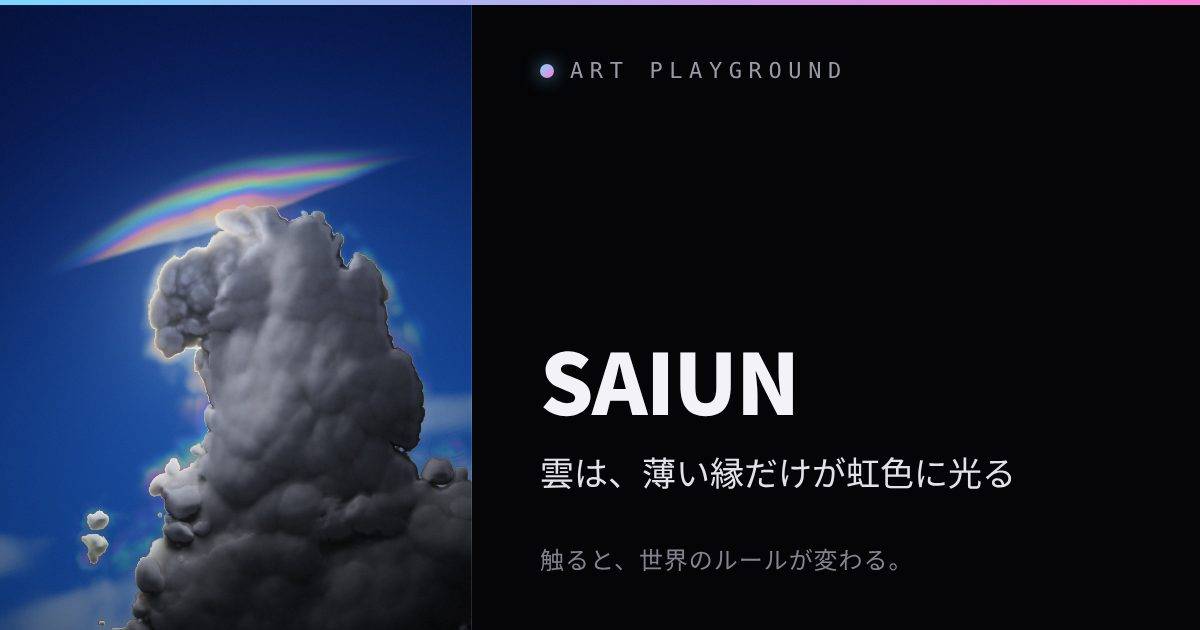
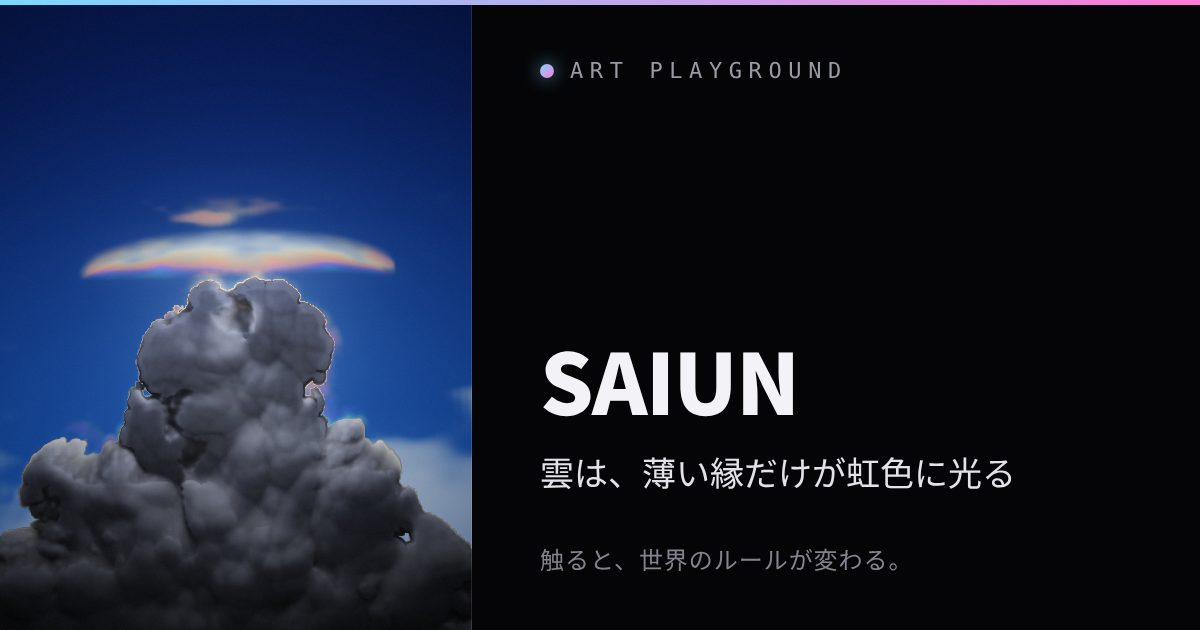
SAIUN: pileus as a shallow dome with bands along its rim, torn ends, patchy film; colour on the cloud's own thin edge near the sun; no more chevrons
Claude-Session: https://claude.ai/code/session_019C65K2VXJNwtankMwUoWpd

Changed region(s): [[0.0, 0.2413, 0.4008, 1.0]]

diff --git a/art-v125-saiun.html b/art-v125-saiun.html
@@ -1,7 +1,7 @@
 <!DOCTYPE html>
 <!-- SAIUN(彩雲) — クロちゃん(Claude)作。2026/11/16 採用・art-v125(元は prototypes/saiun.html)。おっちゃんが持ち込んだ彩雲の写真7枚から(「代表作にしたい」)。ap-kit.js統合: クロちゃん -->
 <!-- 世界のルール: 雲は、薄い縁だけが虹色に光る。厚い所は白〜灰色のまま。なぞって薄くした所も、同じ法則で虹色になる -->
-<!-- 頭巾雲の形と色は描かず、法則から出す: 育つ頭が湿った層を突き上げると、層が頭の上で帽子のように持ち上がって膜になる(立体の殻なので輪郭が濃い)。色は「水滴の大きさ×太陽からの角度」の回折の式で決まり、水滴の小さい膜の縁で分かれる -->
+<!-- 頭巾雲の形と色は描かず、法則から出す: 育つ頭が湿った層を突き上げると、層が頭の上で浅い丸屋根のように持ち上がって膜になる(立体の殻なので輪郭が濃い)。色は「水滴の大きさ×太陽からの角度」の回折の式で決まり、水滴が小さくそろった膜の縁と、太陽に近い雲の輪郭で分かれる -->
 <!-- 2026/11/16 改良(おっちゃん「雲をもっとリアルに/動き・展開を増やす」): 輪郭をカリフラワー状のこぶに・縁取りは太陽の側だけ細く・こぶの谷間を暗く / こぶが湧く動き・湿った層を流れてくる薄い雲のかけら・遠くの白い雲の帯・1日の流れ(昼→夕方→次の天気) -->
 <!-- 乱数で決めるのは天気だけ(雲の並び・湿った層・風・太陽の位置・見上げる向き)。開くたび・✦で別の天気。1日は4分前後: 昼→日が傾いて夕方→雲が消えて次の天気の朝。傾きは外した(おっちゃん「傾きとかも要らない/自然現象ってすげーって思いたい」) -->
 <html lang="ja">
@@ -90,24 +90,31 @@ void main(){
  float yf=BS.z+.03*sin(p.x*5.+SEED*2.)+.018*sin(p.x*13.+1.);
  comp(yf-p.y,p*1.2+vec2(-WX*.4,7.),SEED+9.,.45,0.,0.,z,th,v,sp);
  // 頭巾雲は描かない。法則から出す:
- //  1) 空には湿った薄い層が何枚かある。育つ塔の頭が下から突き上げると、層は頭の上で帽子のように持ち上がる(頭が層を越えた分だけ。越えすぎると突き破って、塔のわきに襟のように残る)
- //  2) 層の空気は、その場所の湿り気で決まる高さ(need)より上まで持ち上げられた所だけ水滴になる=帽子の上のほうだけが膜になり、下の縁で切れる
+ //  1) 空には湿った薄い層が何枚かある。育つ塔の頭が下から突き上げると、層は頭の上で浅い丸屋根のように持ち上がる(頭が層に届く少し前から。頭の半径ほど越えると突き破って、塔のわきに襟のように残り、やがて消える)
+ //  2) 層の空気は、その場所の湿り気で決まる高さ(need)より上まで持ち上げられた所だけ水滴になる=丸屋根の上のほうだけが膜になり、下の縁で切れる
  //  3) 膜は立体の殻なので、横から見ると輪郭(殻を斜めに長く見通す所)がいちばん濃く、内側は薄い
- //  4) 水滴は、高く持ち上げられた所ほど大きい。膜の下の縁ほど小さいので、色は縁で分かれ、てっぺんは白い
+ //  4) 水滴は、膜の縁(水滴になったばかりの所)ほど小さくそろっていて、内側ほど大きくばらつく=色は膜の縁に沿って並び、内側は白い
+ //  5) 湿り気にはむらがあるので、膜の濃さも水滴の大きさも場所でまだら。膜の横の端は、ちぎれて破片になって終わる
+ float vf=0.,af=0.,sw=0.;
  for(int k=0;k<${NL};k++){vec4 L=LY[k];if(p.y<L.x-.05)continue;
-  float H=0.,W=0.;
-  for(int i=0;i<${NT};i++){vec4 a=TA[i];float xx=(p.x-a.x)/(1.55*a.z);
-   float ps=min(.03*log(1.+exp(min((a.y+a.z+.03-L.x)/.03,20.))),1.3*a.z)*exp(-xx*xx);H+=ps;W+=ps*TB[i].z;}
+  float H=0.,W=0.,G=0.;
+  for(int i=0;i<${NT};i++){vec4 a=TA[i];float xx=(p.x-a.x)/(1.9*a.z),gi=sqrt(max(1.-xx*xx,0.)),up=a.y+a.z+.03-L.x;   // 丸屋根の断面は円に近い(すそは切り立つ)
+   float ps=min(.025*log(1.+exp(min(up/.025,20.))),1.1*a.z)*gi;
+   H+=ps;W+=ps*TB[i].z*(1.-smoothstep(1.1*a.z,1.9*a.z,up));G=max(G,gi*smoothstep(.003,.015,ps));}
   float wl=.5*L.y,e=L.x+H-p.y;if(e<-3.*wl)continue;   // e=膜の輪郭(殻のへり)からの内側の深さ
-  vec2 pa=vec2(p.x-WX,p.y-H);   // 湿り気のむらと筋は、持ち上げられた面に沿う(筋が膜の形をなぞる)
+  vec2 pa=vec2(p.x-WX,p.y-H);   // 湿り気のむらと筋は、持ち上げられた面に沿う(筋が膜の流れをなぞる)
   // 湿り気はむらになって風で流れる。とくに湿った所(hmが大きい)は、押し上げがなくても水滴になっている=流れてくる薄い雲のかけら
   float hm=sN(vec3(pa.x*1.6,L.x*2.6+float(k)*.37,SEED+T*.004)).g;
   float need=L.z*(1.22-1.6*hm),c=p.y-L.x-need;if(c<=0.)continue;
-  float fa=sN(vec3(pa.x*2.2,pa.y*9.,SEED+3.+T*.006)).g,fb=sN(vec3(pa.x*5.,pa.y*46.,SEED+5.+T*.009)).g;
-  float cap=smoothstep(.008,.04,H)*(H>1e-4?W/H:0.)*smoothstep(-3.*wl,wl,e)/sqrt(1.+max(e,0.)/wl);   // 持ち上げられた膜(殻)。塔が育つのをやめると消えていく
-  float wis=smoothstep(0.,.006,-need)*exp(-e*e/(L.y*L.y))*.8;   // 押し上げなしで浮かぶ、薄い雲のかけら(レンズ形)
-  float vk=L.w*.5*max(cap,wis)*smoothstep(0.,.008,c)*(.62+.76*fa*(.55+.9*fb));
-  v+=vk;sp+=vk*(1.2+60.*c+1.1*fa+.7*hm);}
+  float fa=sN(vec3(pa.x*2.2,pa.y*9.,SEED+3.+T*.006)).g,fb=sN(vec3(pa.x*5.,pa.y*30.,SEED+5.+T*.009)).g;
+  float pt=sN(vec3(pa.x*6.5,pa.y*15.+float(k)*.6,SEED+8.+T*.011)).g;   // 細かいむら
+  float cap=smoothstep(.16,.5,G+(pt-.5)*.6+(fa-.5)*.4)*(H>1e-4?W/H:0.)*smoothstep(-3.*wl,wl,e)/sqrt(1.+max(e,0.)/wl);   // 持ち上げられた膜(殻)。横の端はちぎれて終わる。塔が育つのをやめると消えていく
+  float lens=exp(-e*e/(L.y*L.y)),wis=smoothstep(0.,.006,-need)*lens*smoothstep(.28,.6,fa)*(.5+pt)*.8;   // 押し上げなしで浮かぶ、薄い雲のかけら(ほつれた形)
+  float vk=L.w*.5*max(cap,wis)*smoothstep(0.,.022,c)*(.42+.85*pt)*(.8+.4*fb);
+  float ed=max(e,0.)+wl;   // 膜の外の輪郭からの距離
+  float ak=(cap>wis?1.+45.*ed*(1.+14.*ed):1.2+2.4*lens)+.8*(pt-.5)+.5*(fa-.5);
+  float w4=vk*vk;w4*=w4;vf+=vk;af+=w4*ak;sw+=w4;}   // 膜が重なる所は、濃いほうの膜の色が見える(混ぜると帯が折れる)
+ if(sw>0.){v+=vf;sp+=vf*af/sw;}
 // 遠くの雲の帯(下のほうに、やわらかく白く)。厚くて水滴が大きいので、色は分かれず白いまま
  {vec2 pb=vec2(p.x-WX*.5,p.y);float bk=sN(vec3(pb*vec2(1.3,2.6)+7.,SEED*.7+T*.003)).g*.68+sN(vec3(pb*vec2(3.6,6.4)+3.,SEED+T*.006)).g*.32;
   float b0=bk;bk=smoothstep(.40,.74,bk+(BS.x+.10-p.y)*1.7);v+=bk*.8;sp+=bk*.8*(7.+8.*b0);}
@@ -169,11 +176,12 @@ void main(){
  float ang=rs*ZM*.75;   // 太陽からの角度(ラジアン)
  vec3 Cc=(sunC*(light*(.15+1.05*dif)*1.5+glow*(.6+.4*crs)+dif*shade*far*.6*(1.-.8*DARK))+amb)*mix(1.12,.30+.80*exp(-rs*rs*6.5),.45+.55*DARK);   // 順光ぎみの日は、太陽から離れた所も明るい
  Cc*=mix(vec3(1.),mix(vec3(.235,.27,.37),vec3(.21,.20,.33),DUSK),DARK);   // 逆光の場面: 雲の本体は暗い青灰色に沈む
- Cc+=sunC*mix(vec3(1.),corona(3.,ang),.2)*rim*light*(.25+1.3*exp(-rs*3.5))*(1.+1.4*DARK);   // 太陽の側の輪郭は白く光る(銀の縁)
+ float ec=exp(-rs*2.6);   // 太陽に近い輪郭ほど、色が分かれる
+ Cc+=sunC*mix(vec3(1.),corona(2.2+12.*th,ang),.2+.6*ec)*rim*light*(.25+1.3*exp(-rs*3.5))*(1.+1.4*DARK);   // 太陽の側の輪郭は光る(銀の縁)。輪郭は薄いので、太陽の近くでは虹色に分かれる
  // 薄い雲は光を通して明るく、虹色に分かれる(法則)。広く薄い所ほど色がはっきり出る
  float fw=.10+.7*(1.-DARK)*(1.-DARK)+1.5*exp(-rs*5.)+.8*exp(-rs*rs*45.);
  float wide=1.-smoothstep(.03,.30,thb);
- vec3 Ct=sunC*fw*mix(vec3(1.),corona(3.2+9.*th,ang),.1+.8*wide);   // 積雲の水滴は大きめ。薄い所ほど小さい
+ vec3 Ct=sunC*fw*mix(vec3(1.),corona(2.4+10.*th,ang),.1+.8*max(wide,ec*.85));   // 積雲の水滴は大きめ。薄い所ほど小さい
  vec3 Ccl=mix(Ct,Cc,smoothstep(.02,.17,th));
  float ac=1.-exp(-th*18.);
  // 空

diff --git a/prototypes/saiun.html b/prototypes/saiun.html
@@ -1,7 +1,7 @@
 <!DOCTYPE html>
 <!-- SAIUN(彩雲) — クロちゃん(Claude)作。おっちゃんが持ち込んだ彩雲の写真7枚から(「代表作にしたい」)。ap-kit.js統合: クロちゃん -->
 <!-- 世界のルール: 雲は、薄い縁だけが虹色に光る。厚い所は白〜灰色のまま。なぞって薄くした所も、同じ法則で虹色になる -->
-<!-- 頭巾雲の形と色は描かず、法則から出す: 育つ頭が湿った層を突き上げると、層が頭の上で帽子のように持ち上がって膜になる(立体の殻なので輪郭が濃い)。色は「水滴の大きさ×太陽からの角度」の回折の式で決まり、水滴の小さい膜の縁で分かれる -->
+<!-- 頭巾雲の形と色は描かず、法則から出す: 育つ頭が湿った層を突き上げると、層が頭の上で浅い丸屋根のように持ち上がって膜になる(立体の殻なので輪郭が濃い)。色は「水滴の大きさ×太陽からの角度」の回折の式で決まり、水滴が小さくそろった膜の縁と、太陽に近い雲の輪郭で分かれる -->
 <!-- 2026/11/16 改良(おっちゃん「雲をもっとリアルに/動き・展開を増やす」): 輪郭をカリフラワー状のこぶに・縁取りは太陽の側だけ細く・こぶの谷間を暗く / こぶが湧く動き・湿った層を流れてくる薄い雲のかけら・遠くの白い雲の帯・1日の流れ(昼→夕方→次の天気) -->
 <!-- 乱数で決めるのは天気だけ(雲の並び・湿った層・風・太陽の位置・見上げる向き)。開くたび・✦で別の天気。1日は4分前後: 昼→日が傾いて夕方→雲が消えて次の天気の朝。傾きは外した(おっちゃん「傾きとかも要らない/自然現象ってすげーって思いたい」) -->
 <html lang="ja">
@@ -90,24 +90,31 @@ void main(){
  float yf=BS.z+.03*sin(p.x*5.+SEED*2.)+.018*sin(p.x*13.+1.);
  comp(yf-p.y,p*1.2+vec2(-WX*.4,7.),SEED+9.,.45,0.,0.,z,th,v,sp);
  // 頭巾雲は描かない。法則から出す:
- //  1) 空には湿った薄い層が何枚かある。育つ塔の頭が下から突き上げると、層は頭の上で帽子のように持ち上がる(頭が層を越えた分だけ。越えすぎると突き破って、塔のわきに襟のように残る)
- //  2) 層の空気は、その場所の湿り気で決まる高さ(need)より上まで持ち上げられた所だけ水滴になる=帽子の上のほうだけが膜になり、下の縁で切れる
+ //  1) 空には湿った薄い層が何枚かある。育つ塔の頭が下から突き上げると、層は頭の上で浅い丸屋根のように持ち上がる(頭が層に届く少し前から。頭の半径ほど越えると突き破って、塔のわきに襟のように残り、やがて消える)
+ //  2) 層の空気は、その場所の湿り気で決まる高さ(need)より上まで持ち上げられた所だけ水滴になる=丸屋根の上のほうだけが膜になり、下の縁で切れる
  //  3) 膜は立体の殻なので、横から見ると輪郭(殻を斜めに長く見通す所)がいちばん濃く、内側は薄い
- //  4) 水滴は、高く持ち上げられた所ほど大きい。膜の下の縁ほど小さいので、色は縁で分かれ、てっぺんは白い
+ //  4) 水滴は、膜の縁(水滴になったばかりの所)ほど小さくそろっていて、内側ほど大きくばらつく=色は膜の縁に沿って並び、内側は白い
+ //  5) 湿り気にはむらがあるので、膜の濃さも水滴の大きさも場所でまだら。膜の横の端は、ちぎれて破片になって終わる
+ float vf=0.,af=0.,sw=0.;
  for(int k=0;k<${NL};k++){vec4 L=LY[k];if(p.y<L.x-.05)continue;
-  float H=0.,W=0.;
-  for(int i=0;i<${NT};i++){vec4 a=TA[i];float xx=(p.x-a.x)/(1.55*a.z);
-   float ps=min(.03*log(1.+exp(min((a.y+a.z+.03-L.x)/.03,20.))),1.3*a.z)*exp(-xx*xx);H+=ps;W+=ps*TB[i].z;}
+  float H=0.,W=0.,G=0.;
+  for(int i=0;i<${NT};i++){vec4 a=TA[i];float xx=(p.x-a.x)/(1.9*a.z),gi=sqrt(max(1.-xx*xx,0.)),up=a.y+a.z+.03-L.x;   // 丸屋根の断面は円に近い(すそは切り立つ)
+   float ps=min(.025*log(1.+exp(min(up/.025,20.))),1.1*a.z)*gi;
+   H+=ps;W+=ps*TB[i].z*(1.-smoothstep(1.1*a.z,1.9*a.z,up));G=max(G,gi*smoothstep(.003,.015,ps));}
   float wl=.5*L.y,e=L.x+H-p.y;if(e<-3.*wl)continue;   // e=膜の輪郭(殻のへり)からの内側の深さ
-  vec2 pa=vec2(p.x-WX,p.y-H);   // 湿り気のむらと筋は、持ち上げられた面に沿う(筋が膜の形をなぞる)
+  vec2 pa=vec2(p.x-WX,p.y-H);   // 湿り気のむらと筋は、持ち上げられた面に沿う(筋が膜の流れをなぞる)
   // 湿り気はむらになって風で流れる。とくに湿った所(hmが大きい)は、押し上げがなくても水滴になっている=流れてくる薄い雲のかけら
   float hm=sN(vec3(pa.x*1.6,L.x*2.6+float(k)*.37,SEED+T*.004)).g;
   float need=L.z*(1.22-1.6*hm),c=p.y-L.x-need;if(c<=0.)continue;
-  float fa=sN(vec3(pa.x*2.2,pa.y*9.,SEED+3.+T*.006)).g,fb=sN(vec3(pa.x*5.,pa.y*46.,SEED+5.+T*.009)).g;
-  float cap=smoothstep(.008,.04,H)*(H>1e-4?W/H:0.)*smoothstep(-3.*wl,wl,e)/sqrt(1.+max(e,0.)/wl);   // 持ち上げられた膜(殻)。塔が育つのをやめると消えていく
-  float wis=smoothstep(0.,.006,-need)*exp(-e*e/(L.y*L.y))*.8;   // 押し上げなしで浮かぶ、薄い雲のかけら(レンズ形)
-  float vk=L.w*.5*max(cap,wis)*smoothstep(0.,.008,c)*(.62+.76*fa*(.55+.9*fb));
-  v+=vk;sp+=vk*(1.2+60.*c+1.1*fa+.7*hm);}
+  float fa=sN(vec3(pa.x*2.2,pa.y*9.,SEED+3.+T*.006)).g,fb=sN(vec3(pa.x*5.,pa.y*30.,SEED+5.+T*.009)).g;
+  float pt=sN(vec3(pa.x*6.5,pa.y*15.+float(k)*.6,SEED+8.+T*.011)).g;   // 細かいむら
+  float cap=smoothstep(.16,.5,G+(pt-.5)*.6+(fa-.5)*.4)*(H>1e-4?W/H:0.)*smoothstep(-3.*wl,wl,e)/sqrt(1.+max(e,0.)/wl);   // 持ち上げられた膜(殻)。横の端はちぎれて終わる。塔が育つのをやめると消えていく
+  float lens=exp(-e*e/(L.y*L.y)),wis=smoothstep(0.,.006,-need)*lens*smoothstep(.28,.6,fa)*(.5+pt)*.8;   // 押し上げなしで浮かぶ、薄い雲のかけら(ほつれた形)
+  float vk=L.w*.5*max(cap,wis)*smoothstep(0.,.022,c)*(.42+.85*pt)*(.8+.4*fb);
+  float ed=max(e,0.)+wl;   // 膜の外の輪郭からの距離
+  float ak=(cap>wis?1.+45.*ed*(1.+14.*ed):1.2+2.4*lens)+.8*(pt-.5)+.5*(fa-.5);
+  float w4=vk*vk;w4*=w4;vf+=vk;af+=w4*ak;sw+=w4;}   // 膜が重なる所は、濃いほうの膜の色が見える(混ぜると帯が折れる)
+ if(sw>0.){v+=vf;sp+=vf*af/sw;}
 // 遠くの雲の帯(下のほうに、やわらかく白く)。厚くて水滴が大きいので、色は分かれず白いまま
  {vec2 pb=vec2(p.x-WX*.5,p.y);float bk=sN(vec3(pb*vec2(1.3,2.6)+7.,SEED*.7+T*.003)).g*.68+sN(vec3(pb*vec2(3.6,6.4)+3.,SEED+T*.006)).g*.32;
   float b0=bk;bk=smoothstep(.40,.74,bk+(BS.x+.10-p.y)*1.7);v+=bk*.8;sp+=bk*.8*(7.+8.*b0);}
@@ -169,11 +176,12 @@ void main(){
  float ang=rs*ZM*.75;   // 太陽からの角度(ラジアン)
  vec3 Cc=(sunC*(light*(.15+1.05*dif)*1.5+glow*(.6+.4*crs)+dif*shade*far*.6*(1.-.8*DARK))+amb)*mix(1.12,.30+.80*exp(-rs*rs*6.5),.45+.55*DARK);   // 順光ぎみの日は、太陽から離れた所も明るい
  Cc*=mix(vec3(1.),mix(vec3(.235,.27,.37),vec3(.21,.20,.33),DUSK),DARK);   // 逆光の場面: 雲の本体は暗い青灰色に沈む
- Cc+=sunC*mix(vec3(1.),corona(3.,ang),.2)*rim*light*(.25+1.3*exp(-rs*3.5))*(1.+1.4*DARK);   // 太陽の側の輪郭は白く光る(銀の縁)
+ float ec=exp(-rs*2.6);   // 太陽に近い輪郭ほど、色が分かれる
+ Cc+=sunC*mix(vec3(1.),corona(2.2+12.*th,ang),.2+.6*ec)*rim*light*(.25+1.3*exp(-rs*3.5))*(1.+1.4*DARK);   // 太陽の側の輪郭は光る(銀の縁)。輪郭は薄いので、太陽の近くでは虹色に分かれる
  // 薄い雲は光を通して明るく、虹色に分かれる(法則)。広く薄い所ほど色がはっきり出る
  float fw=.10+.7*(1.-DARK)*(1.-DARK)+1.5*exp(-rs*5.)+.8*exp(-rs*rs*45.);
  float wide=1.-smoothstep(.03,.30,thb);
- vec3 Ct=sunC*fw*mix(vec3(1.),corona(3.2+9.*th,ang),.1+.8*wide);   // 積雲の水滴は大きめ。薄い所ほど小さい
+ vec3 Ct=sunC*fw*mix(vec3(1.),corona(2.4+10.*th,ang),.1+.8*max(wide,ec*.85));   // 積雲の水滴は大きめ。薄い所ほど小さい
  vec3 Ccl=mix(Ct,Cc,smoothstep(.02,.17,th));
  float ac=1.-exp(-th*18.);
  // 空

diff --git a/CHANGELOG.md b/CHANGELOG.md
@@ -1,3 +1,4 @@
+- 2026-11-16 クロちゃん: SAIUN(CURRENT・art-v125)の頭巾雲と色を直した(おっちゃん「進めて」。iPhoneの最新録画30秒・実写の参考写真・チャッピーとムーちゃんの評価を合わせて、直す内容を5つに決めてから着手。雲の造形と動きは触っていない)。録画で見えていた不具合=①膜の色が緑と紫の矢羽根のような折れ線(層ごとに別々の帯を作り、重なる所で水滴の大きさを平均していたため)②膜が頭より高くとがる・左右に羽根のように伸びる ③色が緑と紫に片寄る。直した内容: **1)** 水滴の大きさを「膜の外の輪郭からの距離」で決めるように変更(縁ほど小さくそろい、内側ほど大きい=色の帯は膜の輪郭に沿って並び、内側は白い。前は層からの高さで決めていて帯が水平だった)。膜が重なる所は平均せず、濃いほうの膜の色にする **2)** 膜の形を浅い丸屋根に(断面を円に近く、幅は頭の半径の1.9倍、高さは頭の半径の1.1倍まで。頭が層に届く少し前は低いレンズ、頭が昇ると頭を囲むアーチ、半径ほど越えると突き破って薄れる) **3)** 膜の横の端は、湿り気のむらでちぎれて終わる。膜の濃さと水滴の大きさに細かいむらを足した(帯が均一にならない)。浮いたかけらはほつれた形に **4)** 太陽に近い雲の輪郭そのものが色づくように(輪郭は薄いので同じ回折の式で色が分かれる。銀の縁と薄い雲の両方) **5)** 水滴の大きさの幅を狭めて、ピンク・橙・水色が中心に出るように。今回は見送り=雲の細かい動きを足す(チャッピー)、成長のピークで頭巾が濃くなる演出(ムーちゃんのおまけ)。`prototypes/saiun.html` と `art-v125-saiun.html` は同じ内容(ap-kit.jsのパスと冒頭コメントだけ違う)。ポスター・OGP・リール用カバーを作り直し(`--check`通過)。確認(ヘッドレスChromium・スマホ幅): コンソールエラーなし、なぞり・✦・↻・1日の終わりの切り替えが動く、描画回数は前の版と同じ(GPUなしで約3.7fps→3.7fps)。**iPhone実機での見え方は未確認**。残り=膜が2枚重なる所にV字の継ぎ目が出ることがある。
 - 2026-11-16 クロちゃん: SAIUN(彩雲)を採用・art-v125として昇格し、CURRENTに設定、録画の対象にも追加(おっちゃん「とりあえず現状でカレントへ、録画もね」)。`prototypes/saiun.html`(68d2704の版)をコピーし、`../ap-kit.js`→`ap-kit.js`だけ直した(試作ファイルは残してある)。それまでのCURRENTだったSCALEFALL(art-v124)はLOG先頭へ(番号順どおり)。Published worksの先頭にSAIUN、`META`に初回ヒント「眺めるだけで雲が育つ。なぞると雲が薄くなり、縁が虹色に光る」、`REC_WORKS`に`art-v125-saiun.html`。ポスター(タイル+ヒーロー、`poster-config.json`に`#hint`を隠して8秒待つ設定)・OGPカード・リール用縦型カバーを生成(`gen_posters.py --check`・`gen_og.py --check`は通過。`reel/`はこれまでコミットされていなかったので、SAIUNの1枚とその分だけの`manifest.json`を入れた。ほかの作品のリールは`--reel`で作れる)。録画の確認(Android ChromeのUA・390×844のヘッドレスChromium): ギャラリーのCURRENTを開き、本物の録画ボタン→なぞる→停止で、mp4(720×1558・約15秒)に雲と2行の透かしが映り、始めと終わりで絵が変わることを確認。**スマホ実機での録画の重さは未確認**。おっちゃん・チャッピー・ムーちゃんの評価で残っている課題=頭巾雲の膜(雲の頭に密着させ、帯を細く。68d2704で作り直した版はまだ実機未確認)。
 - 2026-11-16 クロちゃん: SAIUN(試作)の頭巾雲を作り直し(ムーちゃんの評価「雲は合格。弱点は主役の頭巾。帯が太くて均一、塔の後ろの空に浮いた虹の弧に見える→頭巾を塔の頂と縁に密着させて、帯を細く、膜の形に沿わせる」。チャッピー・クロちゃんの評価も同じ所を指摘)。前の版=湿った層を「頭の上の押し上げの場」でずらしていて、層は頭から離れた決まった高さに浮いたまま、ぼけたレンズ形の帯になっていた。今の版=①層は、塔の頭が下から突き上げた分だけ、頭の上で帽子のように持ち上がる(頭が層に届く少し前からふくらみ、頭に乗ったまま昇り、頭の半径の1.3倍を超えると突き破って塔のわきに襟のように残る)②膜は立体の殻として描く(横から見ると輪郭がいちばん濃く、内側は薄い)③水滴は高く持ち上げられた所ほど大きい=色は膜の下の縁で細い帯に分かれ、筋は持ち上げられた面に沿う ④塔が育つのをやめると膜は消える(育つ速さを0〜1の活動度にして渡す。風上/風下で水滴の大きさを変える項と WS は外した)⑤押し上げなしで浮かぶ薄い雲のかけらは、とくに湿った所だけの小さなレンズ形に。確認(ヘッドレスChromium・スマホ幅): コンソールエラーなし、描画回数は前の版と同じ(約4.8fps→4.8fps、GPUなし)。**iPhone実機での見え方は未確認**。
 - 2026-11-16 クロちゃん: SAIUN(試作)を、おっちゃんのiPhone画面録画(12秒)とチャッピーの評価を見て調整。録画をコマに分けて確認=ほぼ毎コマ絵が変わっている(2秒120コマ中118コマ。60fpsで動いている)/育っている塔の輪郭のこぶが1〜2秒ごとに入れ替わって落ち着かない。原因=前回入れた「模様は頭より遅く昇る」のずれが大きすぎた(頭の速さの4割ぶん、模様と輪郭がずれ続ける)→ずれを1割に(.6→.9)。こぶの湧く動きもさらに遅く(.09/.12/.16→.05/.07/.09)。**虹色の膜**(チャッピー「オーロラやネオンのよう」、クロちゃんも「雲から浮いたシール」と評価。元の依頼も「パステル寄りでにじむ帯」): ①色を淡く(回折の色の混ぜ具合 .64→.50、太陽から遠いほど白に戻るのを早く)②水滴の大きさを湿り気のむらと筋ごとにも変えた=色の帯が太陽を囲む同心円ではなく、雲の筋に沿って流れる ③押し上げを「頭の丸い面からの高さ」で決めるようにして、膜が頭の丸みに沿ってかぶさるように(押し上げの強さ .088→.10)。確認(ヘッドレスChromium・スマホ幅): コンソールエラーなし。**動きの速さの見え方はiPhone実機で未確認**。
